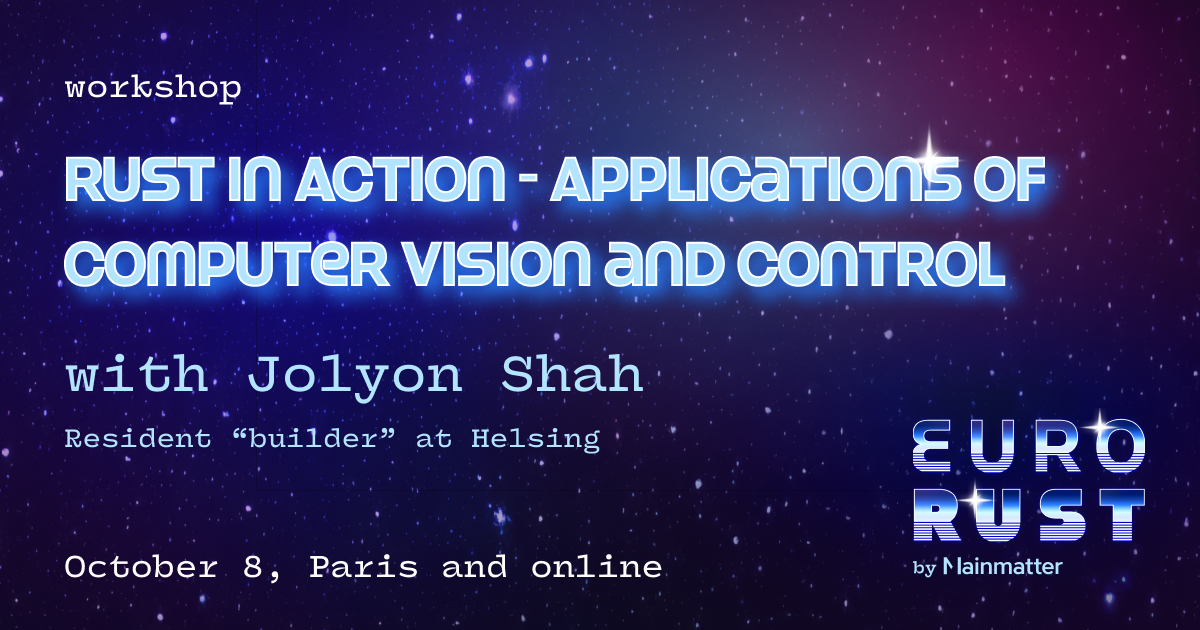
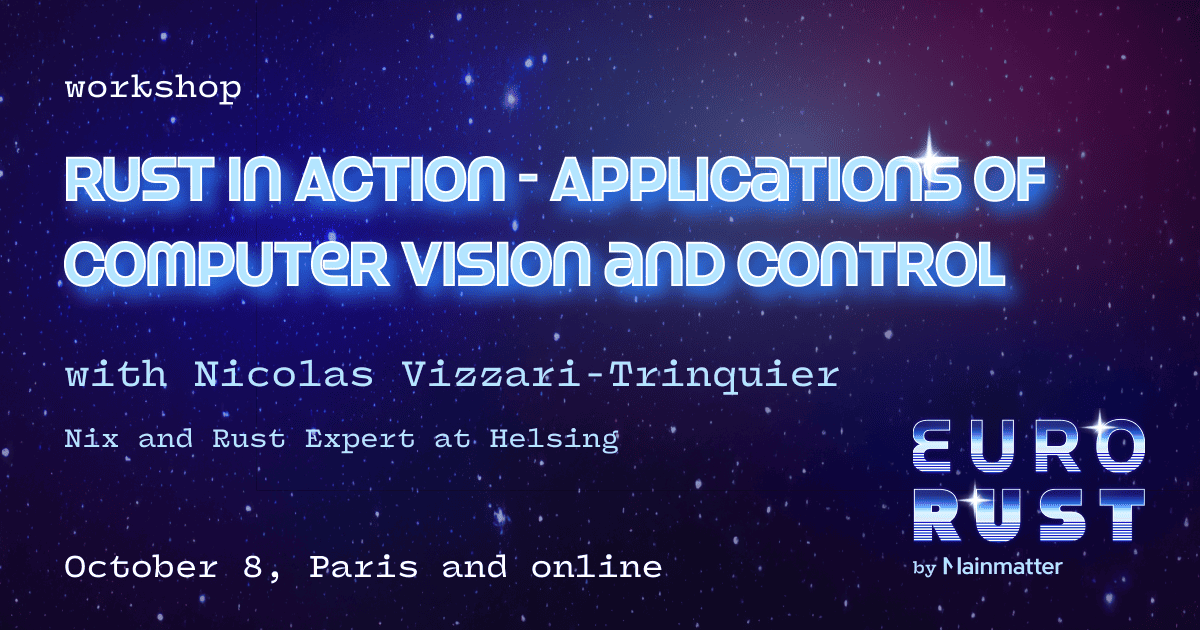
update(mentor)

diff --git a/content/workshops/rust-in-action.md b/content/workshops/rust-in-action.md
@@ -7,7 +7,7 @@ template = "workshop.html"
   sponsor_cta = "Visit our website"
   sponsor_url = "https://helsing.ai/?utm_source=eurorust"
   mentors = [
-    { name = "Jolyon Shah", avatar = "jolyon-shah.png", avatar_alt = "Jolyon Shah",  bio = "Jolyon is Helsing’s resident “builder”. Whether that’s for suitcase-sized hackathons, aerodynamic simulation systems, or designing and constructing prototypes for drone nose modules, Jolyon is the person people go to first.<br /><br />Previously spending most of his time building databases in Java, Jolyon’s first encounter with Rust was when he joined Helsing. Since then, it has become his daily driver - using it to build simulators for systems-of-systems, flight mechanics, web-services, and silly hackathon projects.<br /><br />If you want to know more about what Jolyon does <i>outside</i> of Helsing, ask him about trapeze, baking, or Spirit Island." }
+    { name = "Nicolas Vizzari-Trinquier", avatar = "nicolas-vizzari-trinquier.webp", avatar_alt = "Nicolas Vizzari-Trinquier",  bio = "Nicolas is one of Helsing’s resident hybrid Nix and Rust experts, previously leading our forward deployment infrastructure team, and more recently helping build the SG-1, Helsing’s first underwater glider.<br/><br/>Previously a Forward Deployed Engineer at Palantir, Nicolas' first encounter with Rust was when he joined Helsing. Since then, it has become his daily driver - and he leverages that knowledge to help Helsing’s new-joiners pick up Rust for the first time in our Infraduction programme." }
   ]
   abstract = "It’s one thing doing things in theory - it’s a totally different ballgame to do them in action. In this workshop, you’ll be combining computer vision, control theory, and a healthy dosage of Rust, to play a Helsing-edition of Simon-says, using real cameras and vehicles!<br /><br />Every 30 seconds, the server will issue a new command - who can get their vehicle into the targeted quadrant the fastest?"
   ogimage = "/images/workshops/og-images/og-image-rust-in-action.png"
